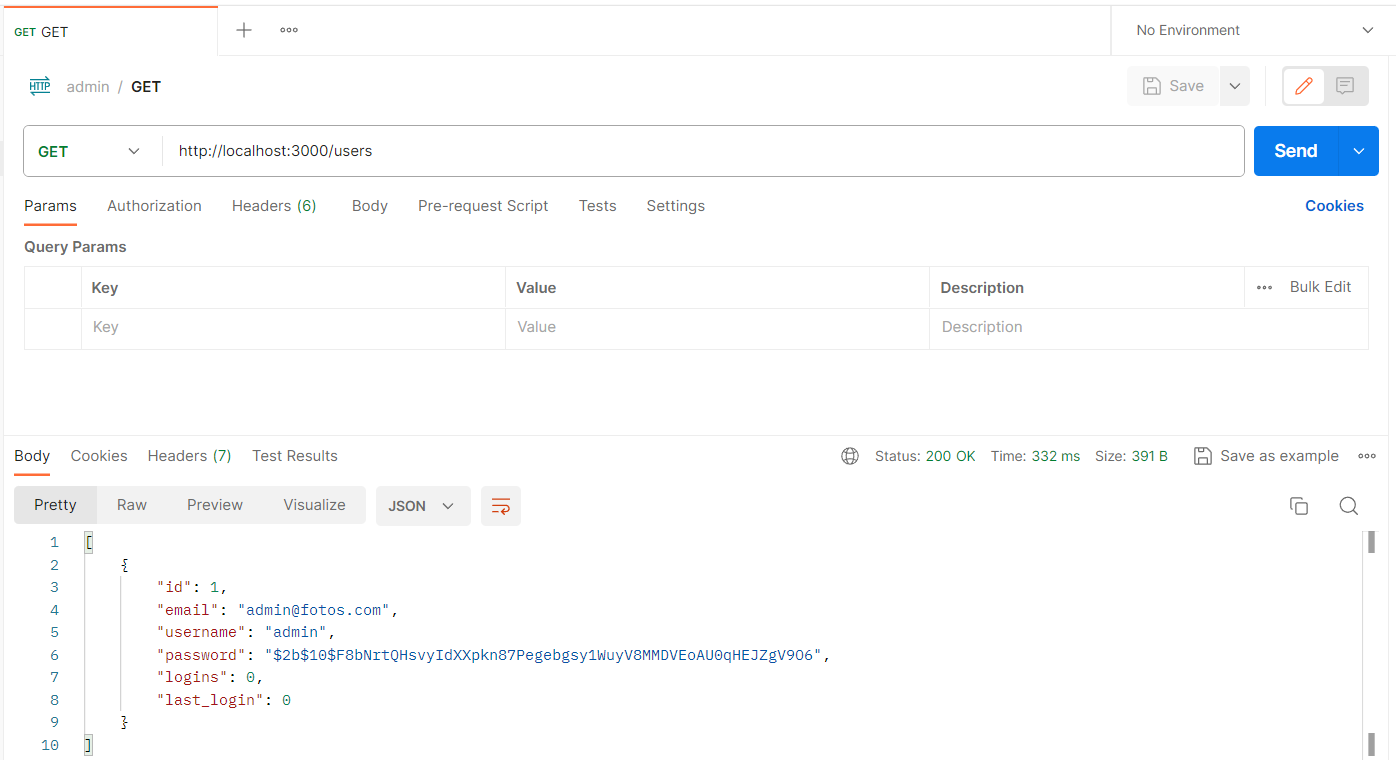
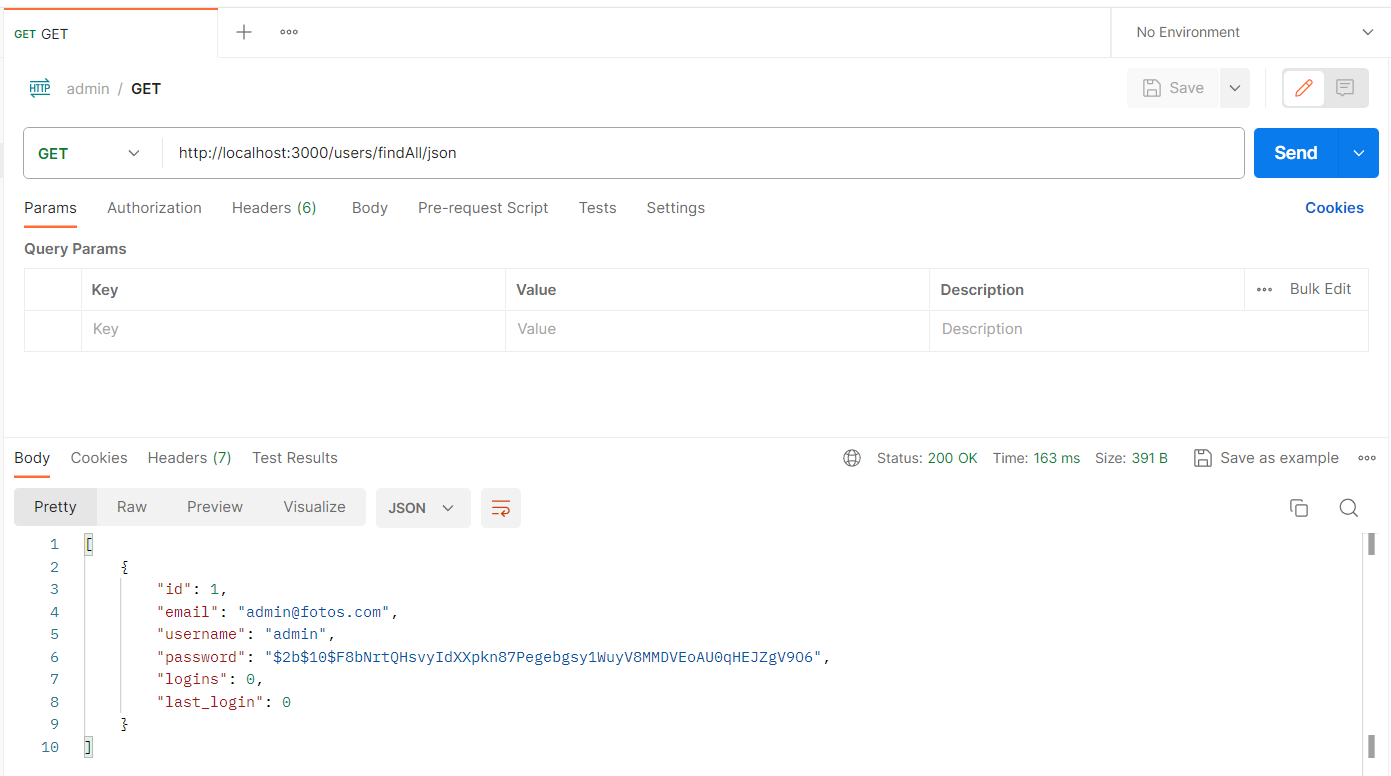
getall

diff --git a/tutoriales/express_rest2.md b/tutoriales/express_rest2.md
@@ -41,7 +41,7 @@ Para obtener TODOS los registros de una entidad en una base de datos relacional,
 
   ```
   /* GET users listing. */
-  router.get('/', function(req, res, next) {
+  router.get('/findAll/json', function(req, res, next) {
     Users.findAll({  
     })  
     .then(users => {  
@@ -65,7 +65,7 @@ Para obtener TODOS los registros de una entidad en una base de datos relacional,
 
 Para obtener UN registro de una entidad en una base de datos relacional, implemente el controlador para el verbo **GET** y el requerimiento al método **findOne** del modelo.
 
-* Cree el controlador para el verbo GET de la ruta **`/findAll/:id/json`** que retorna un json dado el id de un foto.
+* Cree el controlador para el verbo GET de la ruta **`/findById/:id/json`** que retorna un json dado el id de un foto.
 
   ```
   /* GET user by id. */
